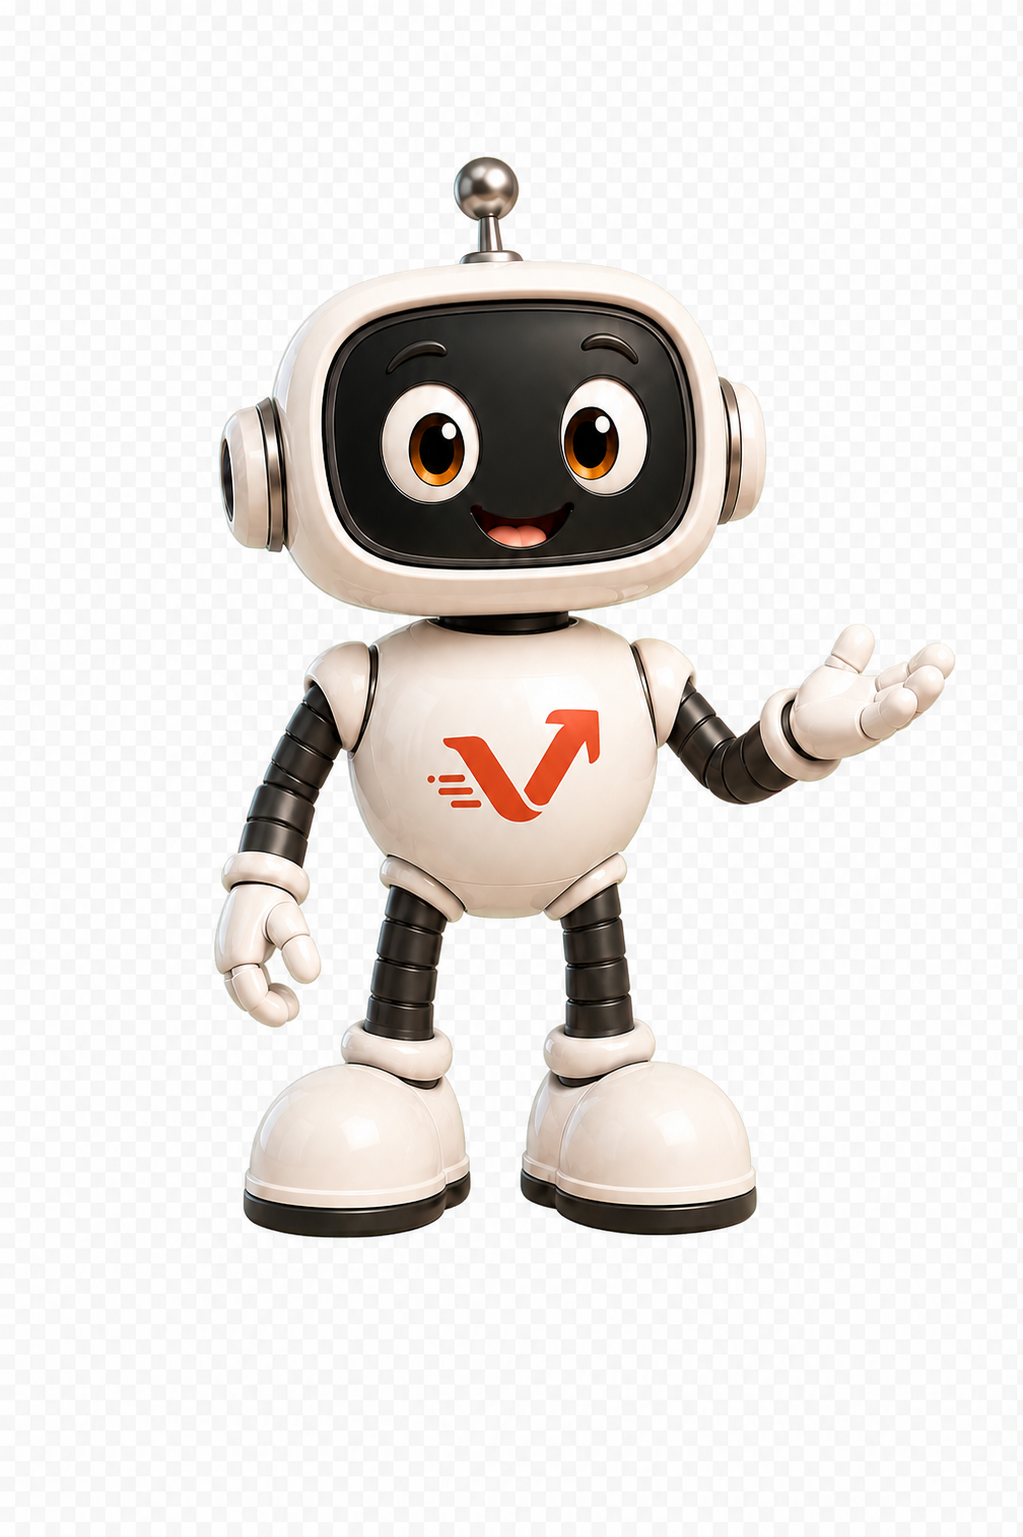
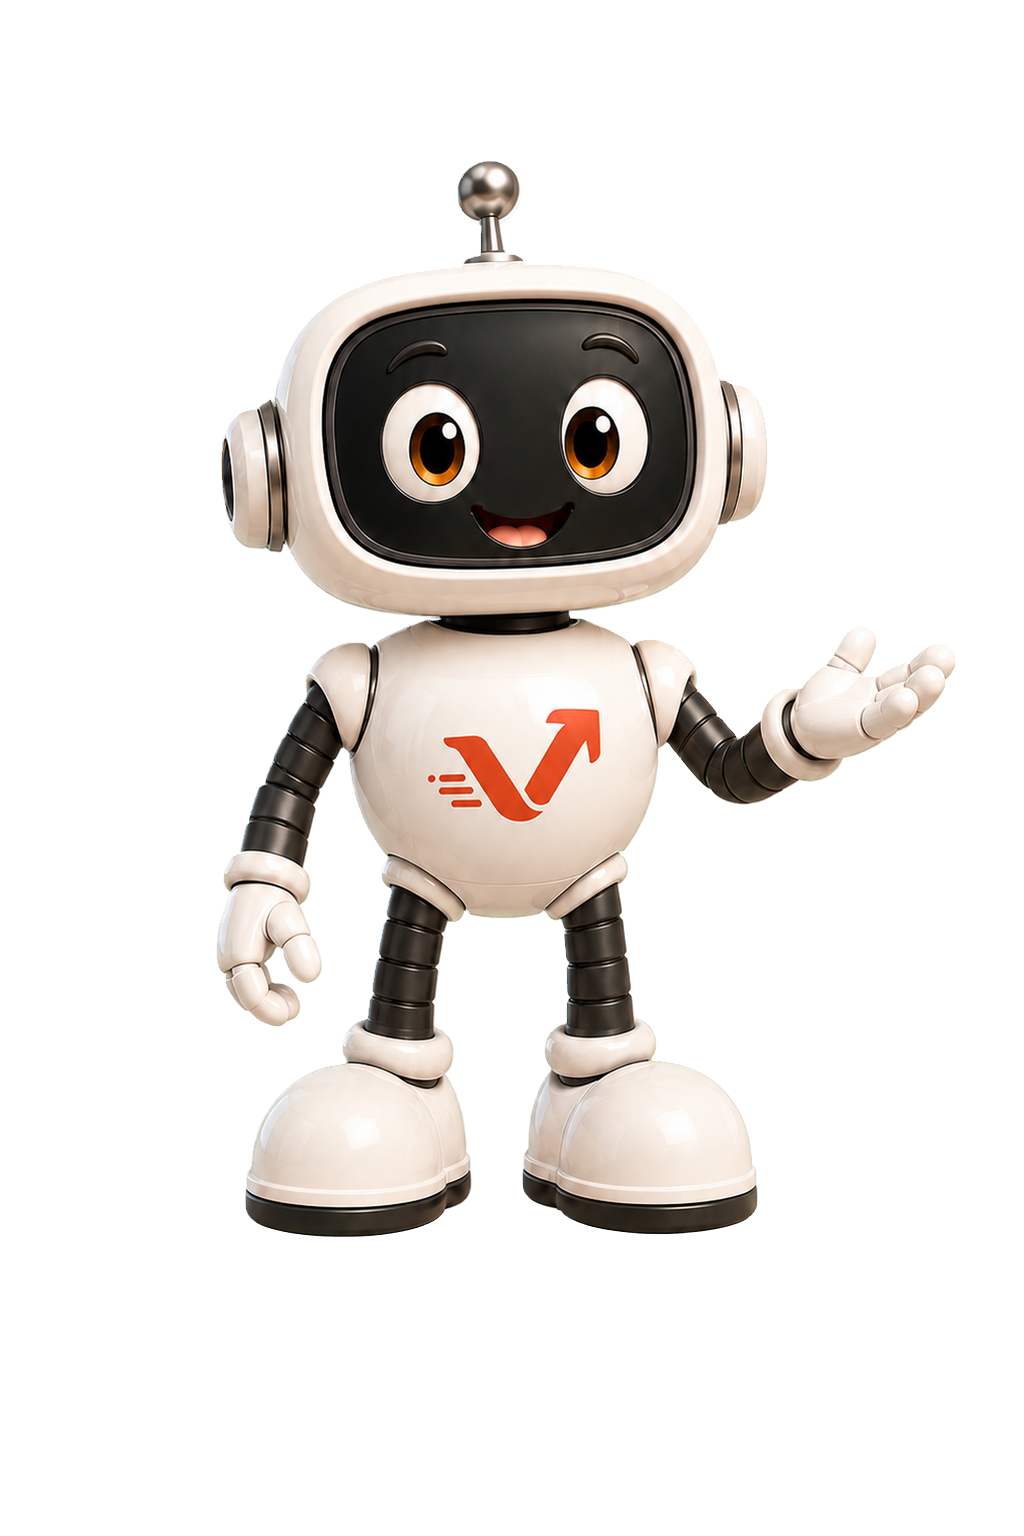
Blend FAQ robot into the page background

diff --git a/_ds_bundle.js b/_ds_bundle.js
@@ -4655,7 +4655,7 @@ function Faq() {
     className: "mock-title"
   }, "Die wichtigsten Fragen und Antworten zu vaiacon."), /*#__PURE__*/React.createElement("img", {
     className: "mock-faq-robot",
-    src: asset('vaiacon-buerobot-faq-transparent.png?v=20260725-17'),
+    src: asset('vaiacon-buerobot-faq-transparent.png?v=20260903-alpha'),
     alt: "vaiaconBot beantwortet Fragen"
   })), /*#__PURE__*/React.createElement("div", null, FAQS.map(([question, answer], index) => /*#__PURE__*/React.createElement(FaqItem, {
     key: question,
@@ -5139,7 +5139,7 @@ function Faq() {
     className: "mock-title"
   }, "Die wichtigsten Fragen und Antworten zu vaiacon."), /*#__PURE__*/React.createElement("img", {
     className: "mock-faq-robot",
-    src: asset('vaiacon-buerobot-faq-transparent.png?v=20260725-17'),
+    src: asset('vaiacon-buerobot-faq-transparent.png?v=20260903-alpha'),
     alt: "vaiaconBot beantwortet Fragen"
   })), /*#__PURE__*/React.createElement("div", null, FAQS.map(([question, answer], index) => /*#__PURE__*/React.createElement(FaqItem, {
     key: question,

diff --git a/ui_kits/website/mockup-entwurf.jsx b/ui_kits/website/mockup-entwurf.jsx
@@ -364,7 +364,7 @@ function Faq() {
         <div className="mock-center">
           <Kicker number="06">FAQ</Kicker>
           <h2 className="mock-title">Die wichtigsten Fragen und Antworten zu vaiacon.</h2>
-          <img className="mock-faq-robot" src={asset('vaiacon-buerobot-faq-transparent.png?v=20260725-17')} alt="vaiaconBot beantwortet Fragen" />
+          <img className="mock-faq-robot" src={asset('vaiacon-buerobot-faq-transparent.png?v=20260903-alpha')} alt="vaiaconBot beantwortet Fragen" />
         </div>
         <div>
           {FAQS.map(([question, answer], index) => (

diff --git a/ui_kits/website/mockup-entwurf.compiled.js b/ui_kits/website/mockup-entwurf.compiled.js
@@ -483,7 +483,7 @@ function Faq() {
     className: "mock-title"
   }, "Die wichtigsten Fragen und Antworten zu vaiacon."), /*#__PURE__*/React.createElement("img", {
     className: "mock-faq-robot",
-    src: asset('vaiacon-buerobot-faq-transparent.png?v=20260725-17'),
+    src: asset('vaiacon-buerobot-faq-transparent.png?v=20260903-alpha'),
     alt: "vaiaconBot beantwortet Fragen"
   })), /*#__PURE__*/React.createElement("div", null, FAQS.map(([question, answer], index) => /*#__PURE__*/React.createElement(FaqItem, {
     key: question,
